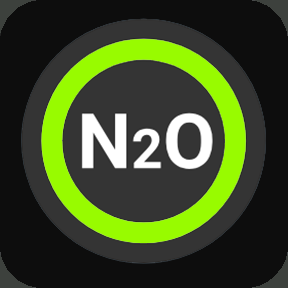
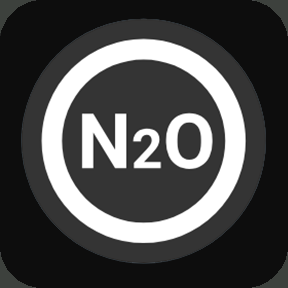
Nitrous and JATO, tested in game; blue/green nitrous rings; README
- Nitrous: tap arms/disarms via the controller's toggleActive (purges like the
  game's own button), hold sprays via setOverride; shows disarmed / armed
  (blue ring) / spraying (green ring, flashing) and bottle % from the n2o tank.
- JATO: hold to fire (or toggle), shows fuel %.
- Ignition shows a red "stalled" state (ignition on, engine not running).
- Headlights use the filled black / green / blue icons.

Verified in the running game via its MCP server: D-Series 4x4 (lights,
fog, hazards, indicators, lightbar, parking brake, range, 4WD, cruise, doors,
bonnet, tailgate, horn), MD-60 school bus (JATO, engine brake), Sunburst
drift (nitrous arm / spray / disarm, stalled ignition).

Claude-Session: https://claude.ai/code/session_01GbrUqxSkmfioPNRzEpJNv9

Changed region(s): [[0.125, 0.125, 0.875, 0.8438]]

diff --git a/src/actions.ts b/src/actions.ts
@@ -566,8 +566,8 @@ export class Nitrous extends DeckAction {
 		if (!s.n2o) return unsupported("n2o", "Nitrous", ["off"]);
 		const spraying = s.n2o.active || s.n2o.override || !!held;
 		const overlay = pct(s.n2o.bottle);
-		if (spraying) return { key: "n2o", label: "Nitrous", state: "spray", alt: ["armed"], value: "SPRAY", color: C.warn, flash: true, overlay };
-		if (s.n2o.armed) return { key: "n2o", label: "Nitrous", state: "armed", value: "ARMED", color: C.on, overlay };
+		if (spraying) return { key: "n2o", label: "Nitrous", state: "spray", alt: ["armed"], value: "SPRAY", color: C.on, flash: true, overlay };
+		if (s.n2o.armed) return { key: "n2o", label: "Nitrous", state: "armed", value: "ARMED", color: C.busy, overlay };
 		return { key: "n2o", label: "Nitrous", state: "off", value: "OFF", color: C.off, overlay };
 	}
 	command(s: VehicleStatus): Command {

diff --git a/README.md b/README.md
@@ -12,6 +12,18 @@ A standalone Stream Deck plugin. It only talks to the game's built-in MCP server
 | Diff lock | LOCKED / OPEN / PARTIAL / AUTO; setting picks front, rear, centre or all | lock / unlock |
 | Range | HIGH / LOW | switch range |
 | 2WD / 4WD | 2WD / 4WD | engage / disengage front drive |
+| Parking brake | on / off | set / release |
+| Headlights | off / low / high (black / green / blue) | cycle, or low-beam / high-beam toggle (setting) |
+| Fog lights, Hazards | on / off (hazards blink) | toggle |
+| Indicator | left or right (setting), blinks while on | toggle |
+| Lightbar | off / mode 1 / mode 2 | cycle |
+| Horn | sounding while held | hold |
+| Cruise control | on/off + set speed, or set / + / - (setting) | toggle / set / adjust |
+| Engine brake, Retarder | level | cycle levels |
+| Air suspension | raise or lower (setting) | hold |
+| Doors / bonnet / boot | open / shut (all doors, one door, bonnet or boot) | open / close |
+| Nitrous | off / armed (blue) / spraying (green), bottle % | tap: arm/disarm, hold: spray (setting) |
+| JATO | ready / firing, fuel % | hold to fire, or toggle (setting) |
 
 Common faces: **NO GAME** (MCP not reachable), **NO CAR**, **…** (loading), **PAUSED** (dimmed
 last state while the vehicle isn't answering), **N/A** (this vehicle doesn't have it).
@@ -50,16 +62,24 @@ frame when that button flashes. Otherwise the plugin dims your PNG for that fram
 
 | key | states |
 |---|---|
-| `ignition` | `off` `acc` `on` `cranking` `running` `unsupported` |
+| `ignition` | `off` `acc` `stalled` (ignition on, engine not running) `cranking` `running` `unsupported` |
 | `traction` | `on` `off` `unsupported`; in cycle mode `mode_<key>` first (e.g. `mode_comfort`, `mode_sport`, `mode_off`), falling back to `on`/`off` |
 | `diff` (shared by every diff button) | `locked` (solid centre) `open` (empty centre) `lsd` (X: an open centre diff, i.e. full-time 4WD) `partial` (orange centre: some locked) |
 | `diff_front` `diff_rear` `diff_center` `diff_all` | optional per-button overrides of `diff/`; the button draws its scope (FRONT / REAR / CENTRE) or, for "all", which diffs are locked (F+R, OPEN...) over the icon |
 | `range` | `high` `low` `partial` `unsupported` |
 | `drive` | `2wd` `4wd` `partial` `unsupported` |
+| `pbrake` `fog` `hazard` `horn` `indicator_left` `indicator_right` `air_raise` `air_lower` | `off` `on` |
+| `lights` | `off` `low` `high` |
+| `lightbar` | `off` `mode1` `mode2` |
+| `cruise` / `cruise_set` `cruise_plus` `cruise_minus` | `off` `on` / `idle` |
+| `ebrake` `retarder` | placeholders for now (level as text) |
+| `doors` `door` `hood` `trunk` | `closed` `open` |
+| `n2o` | `off` `armed` `spray` |
+| `jato` | `off` `on` `empty` |
 | `common` | `offline` `novehicle` `loading` |
 | any key | `error` (shown after a failed press) |
 
-Colour scheme: white icons, as in the game. Orange is kept for flash frames while a command is
+Colour scheme: white icons, as in the game; orange marks "on" for two-state buttons. Orange is kept for flash frames while a command is
 pending, TC off, and mixed states. A button whose feature this vehicle doesn't have shows its
 unlocked/off icon dimmed.
 
@@ -74,6 +94,12 @@ npm run build          # -> com.yahms.beamdeckng.sdPlugin/bin/plugin.js
 npm run pack           # -> dist/com.yahms.beamdeckng.streamDeckPlugin
 npx streamdeck link com.yahms.beamdeckng.sdPlugin   # dev: run from this folder
 ```
+
+## Test against the running game
+
+`test/rollup.browser.mjs` builds `test/build/browser.js`, the real `src/game.ts` for a browser page served from
+`http://127.0.0.1:29292` (open that URL; the 405 page is fine), so it can POST to `/mcp` with no CORS issues.
+Set `window.__LUA = { resolver, beamdeck }` (fetched from the repo) before loading it.
 
 ## Test without the game
 
